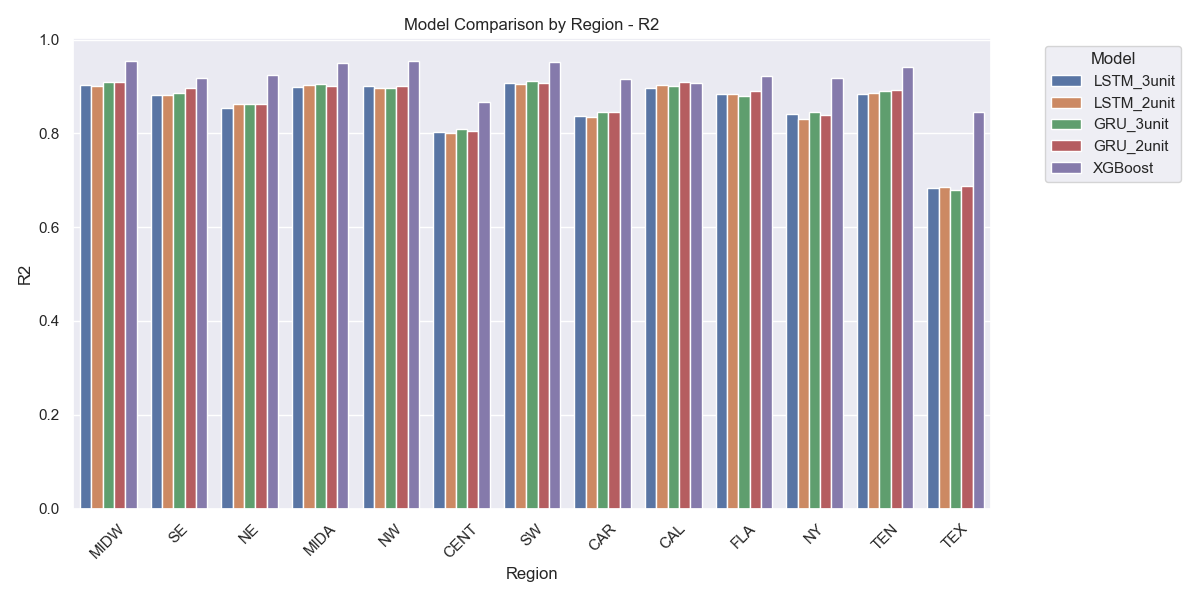
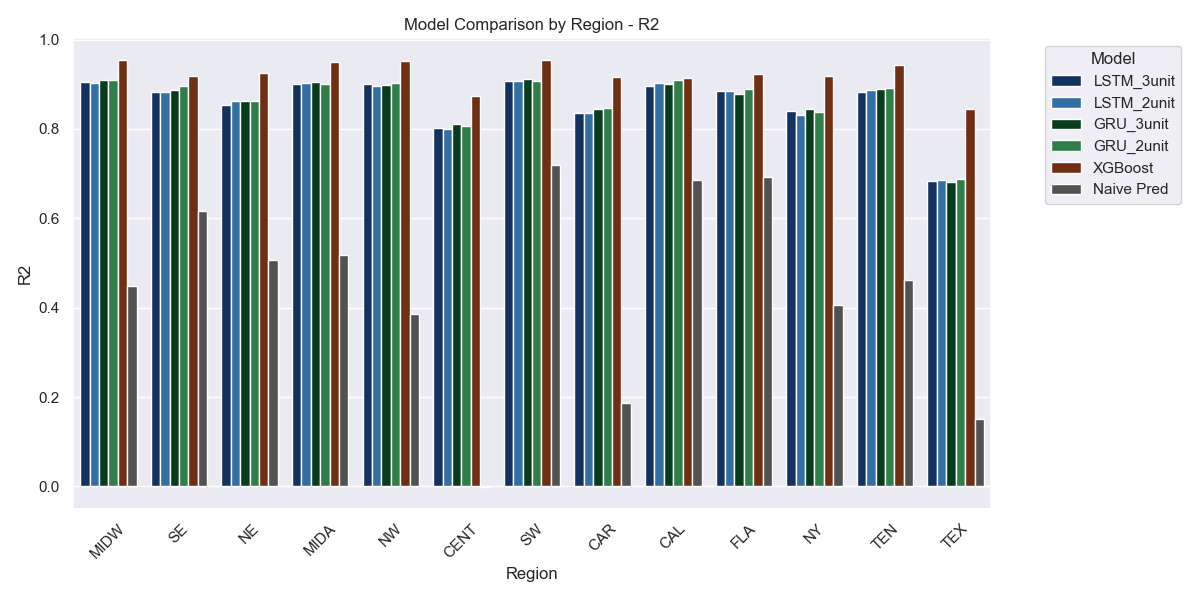
adjusted loss metric for XGBoost consistent with RNN and fixed comp plots

diff --git a/src/regional_model_comp.py b/src/regional_model_comp.py
@@ -53,12 +53,22 @@ def load_model_metrics(DATA_DIR: Path):
 def plot_model_metrics(FIG_DIR, summary_df):
     metrics = ['RMSE', 'MAE', 'MAPE', 'R2']
 
+    palette = {
+        'LSTM_3unit': '#08306B',  # navy
+        'LSTM_2unit': '#2171B5',  # blue
+        'GRU_3unit': '#00441B',  # dark green
+        'GRU_2unit': '#238B45',  # green
+        'XGBoost': '#7F2704',  # rust
+        'Naive Pred': '#525252'  # gray
+    }
+
     for metric in metrics:
         plt.figure(figsize=(12, 6))
         sns.barplot(
             data=summary_df,
             x='Region', y=metric,
             hue='Model',
+            palette=palette,
             dodge=True,
             errorbar=None  # disable error bars for clean comparison
         )

diff --git a/src/naive_baseline_eval.py b/src/naive_baseline_eval.py
@@ -59,12 +59,6 @@ def evaluate_naive_lag_24(DATA_DIR: Path, region, target_col: str = 'Total inter
     mape = safe_mape(y_true, y_pred)
     r2 = r2_score(y_true, y_pred)
 
-    print(f"Naive Baseline Evaluation (24hr lag) {region}:")
-    print(f"  RMSE : {rmse:.2f}")
-    print(f"  MAE  : {mae:.2f}")
-    print(f"  MAPE : {mape:.2f}%")
-    print(f"  R²   : {r2:.3f}")
-
     return rmse, mae, mape, r2
 
 def get_naive_results(DATA_DIR: Path, regions):

diff --git a/src/regional_XGBoost.py b/src/regional_XGBoost.py
@@ -55,7 +55,7 @@ def fit_best_XG(param_grid: dict, X_train: pd.DataFrame, y_train: pd.DataFrame, 
         estimator=xgb,
         param_grid=param_grid,
         cv=tscv,
-        scoring='neg_mean_absolute_error',
+        scoring='neg_mean_squared_error',
         n_jobs=-1,
         verbose=1
     )
